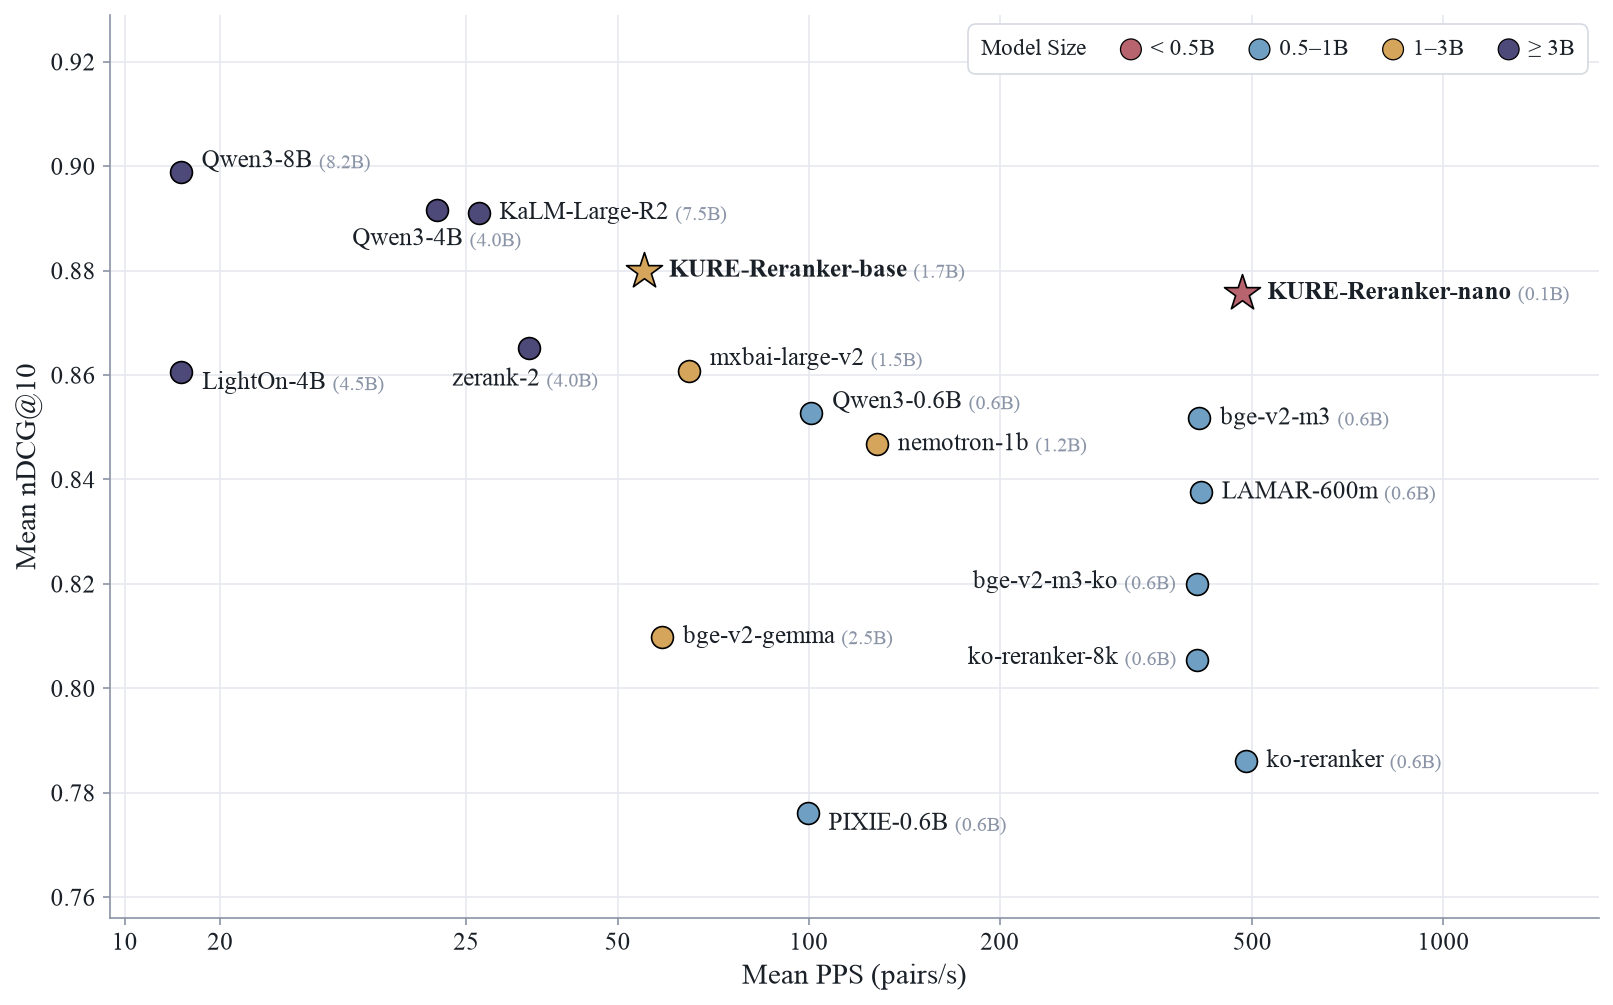
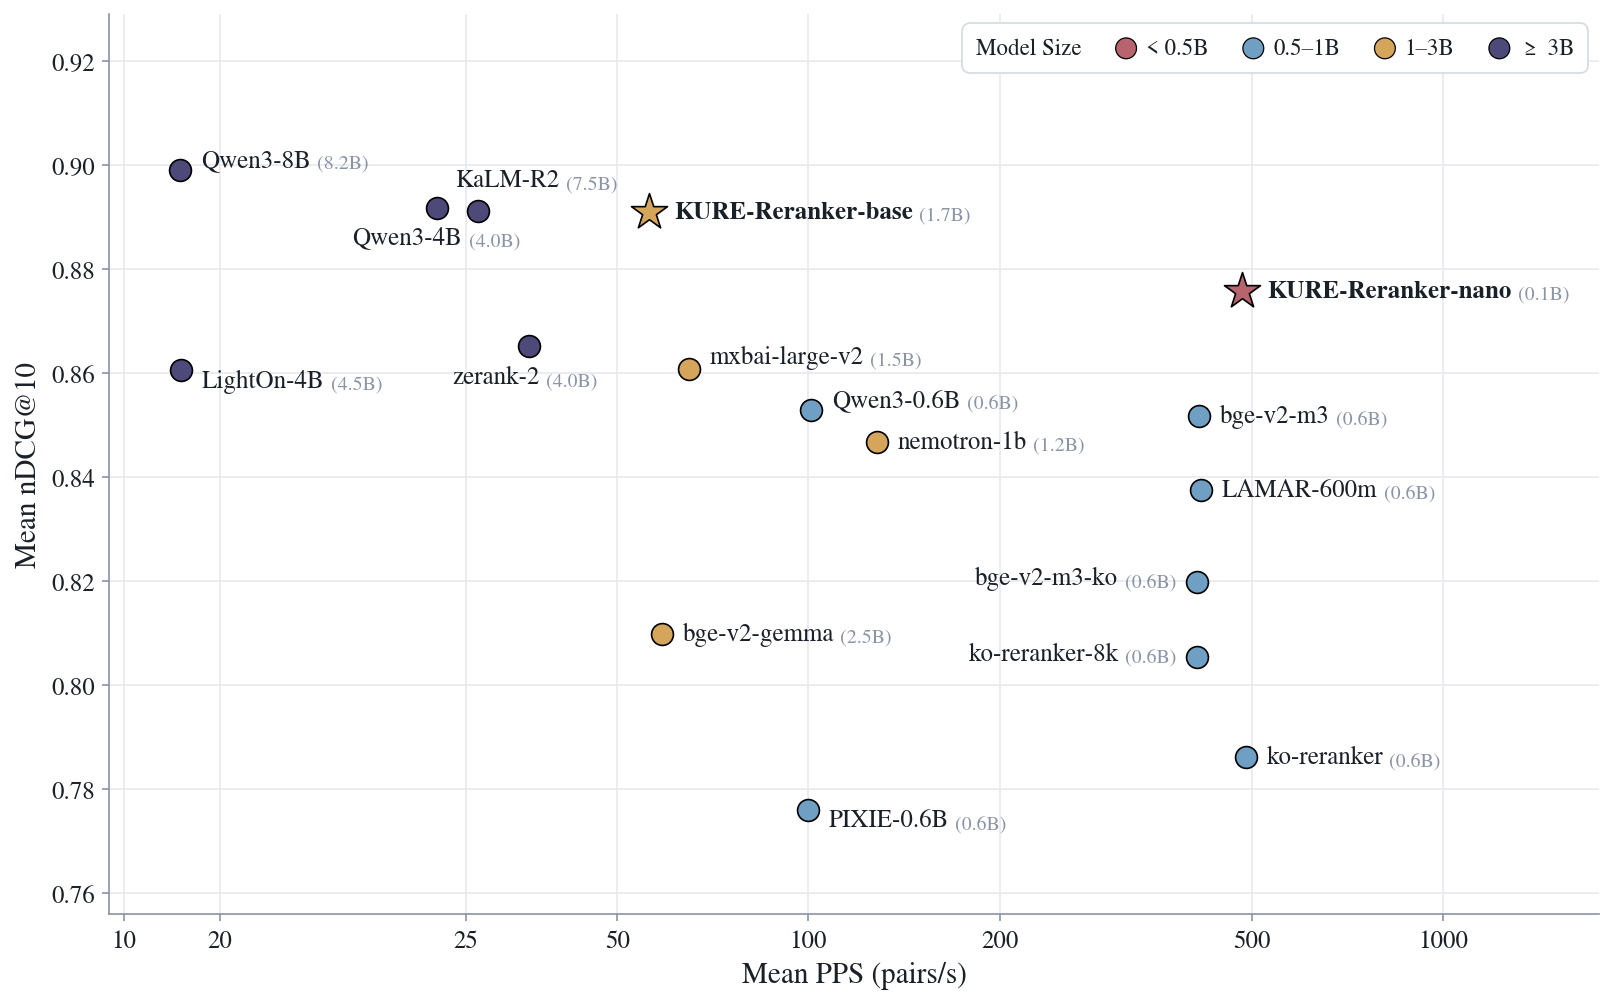
feat: add retrained KURE-Reranker-base, and its evaluation results

diff --git a/eval/cross-encoder/plot_pps_vs_ndcg.py b/eval/cross-encoder/plot_pps_vs_ndcg.py
@@ -63,7 +63,7 @@ SHORT = {
     "Qwen/Qwen3-Reranker-8B": "Qwen3-8B",
     "Qwen/Qwen3-Reranker-4B": "Qwen3-4B",
     "Qwen/Qwen3-Reranker-0.6B": "Qwen3-0.6B",
-    "KaLM-Embedding/KaLM-Reranker-V1-Large-R2": "KaLM-Large-R2",
+    "KaLM-Embedding/KaLM-Reranker-V1-Large-R2": "KaLM-R2",
     "zeroentropy/zerank-2-reranker": "zerank-2",
     "lightonai/LightOn-rerank-PW-4B": "LightOn-4B",
     "mixedbread-ai/mxbai-rerank-large-v2": "mxbai-large-v2",
@@ -85,6 +85,7 @@ OFFSET = {
     "PIXIE-0.6B": (10, -5),
     "bge-v2-m3-ko": (-10, 0),
     "ko-reranker-8k": (-10, 0),
+    "KaLM-R2": (14, 15, "center"),  # above, slightly right: KURE-Reranker-base sits to its right
     "KURE-Reranker-base": (12, 0),
     "KURE-Reranker-nano": (12, 0),
 }

diff --git a/eval/cross-encoder/results/README.md b/eval/cross-encoder/results/README.md
@@ -8,10 +8,10 @@ uv run python eval/cross-encoder/make_leaderboard.py
 
 | Model | Params | Avg | Ko-StrategyQA | AutoRAG | PublicHealthQA | Belebele | MIRACL | MrTidy | MLDR | SQuADKorV1 | LawIRKo |
 |---|---:|---:|---:|---:|---:|---:|---:|---:|---:|---:|---:|
-| Qwen/Qwen3-Reranker-8B | 8.2B | **0.8990** | 0.8720 | 0.9653 | **0.8654** | 0.9785 | 0.8513 | 0.8416 | **0.8255** | **0.9897** | **0.9013** |
+| Qwen/Qwen3-Reranker-8B | 8.2B | **0.8990** | 0.8720 | 0.9653 | **0.8654** | 0.9785 | 0.8513 | 0.8416 | **0.8255** | 0.9897 | **0.9013** |
 | Qwen/Qwen3-Reranker-4B | 4.0B | 0.8916 | 0.8733 | 0.9630 | 0.8442 | 0.9794 | 0.8559 | 0.8298 | 0.8161 | 0.9861 | 0.8766 |
 | KaLM-Embedding/KaLM-Reranker-V1-Large-R2 | 7.5B | 0.8910 | **0.8796** | 0.9415 | 0.8633 | **0.9809** | 0.8382 | 0.8500 | 0.7970 | 0.9863 | 0.8824 |
-| **nlpai-lab/KURE-Reranker-base** | 1.7B | 0.8800 | 0.8548 | 0.9762 | 0.8381 | 0.9767 | 0.8371 | 0.7970 | 0.8163 | 0.9891 | 0.8343 |
+| **nlpai-lab/KURE-Reranker-base** | 1.7B | 0.8908 | 0.8605 | **0.9870** | 0.8331 | 0.9757 | 0.8496 | 0.8252 | 0.8189 | **0.9907** | 0.8768 |
 | **nlpai-lab/KURE-Reranker-nano** | 149M | 0.8757 | 0.8582 | 0.9741 | 0.8078 | 0.9768 | 0.8400 | 0.8011 | 0.7966 | 0.9895 | 0.8368 |
 | zeroentropy/zerank-2-reranker | 4.0B | 0.8652 | 0.8712 | 0.9436 | 0.8377 | 0.9731 | 0.8003 | 0.8027 | 0.7120 | 0.9791 | 0.8669 |
 | mixedbread-ai/mxbai-rerank-large-v2 | 1.5B | 0.8607 | 0.8563 | 0.9531 | 0.8407 | 0.9659 | 0.7939 | **0.8771** | 0.6787 | 0.9681 | 0.8130 |
@@ -26,7 +26,7 @@ uv run python eval/cross-encoder/make_leaderboard.py
 | Dongjin-kr/ko-reranker | 560M | 0.7861 | 0.8468 | 0.9014 | 0.6976 | 0.9655 | 0.8017 | 0.7772 | 0.3721 | 0.9785 | 0.7343 |
 | telepix/PIXIE-Spell-Reranker-Preview-0.6B | 596M | 0.7760 | 0.8329 | 0.9794 | 0.8211 | 0.9689 | 0.8449 | 0.7650 | 0.1829 | 0.9850 | 0.6042 |
 | jinaai/jina-reranker-v3 | 597M | - | 0.8553 | 0.9773 | 0.7762 | 0.9606 | 0.8449 | 0.8104 | - | 0.9859 | 0.8546 |
-| jinaai/jina-reranker-v3.5 | 597M | - | 0.8539 | **0.9838** | 0.8337 | 0.9659 | **0.8565** | 0.8194 | - | 0.9887 | 0.8545 |
+| jinaai/jina-reranker-v3.5 | 597M | - | 0.8539 | 0.9838 | 0.8337 | 0.9659 | **0.8565** | 0.8194 | - | 0.9887 | 0.8545 |
 
 ## Per-task PPS
 
@@ -43,7 +43,7 @@ uv run python eval/cross-encoder/make_leaderboard.py
 | telepix/PIXIE-Spell-Reranker-Preview-0.6B | 596M | 99.7 | 104.6 | 49.4 | 106.3 | 141.5 | 160.5 | 175.6 | 4.3 | 72.1 | 82.6 |
 | mixedbread-ai/mxbai-rerank-large-v2 | 1.5B | 64.8 | 70.0 | 32.9 | 68.0 | 89.8 | 104.2 | 113.6 | 3.2 | 47.0 | 54.7 |
 | BAAI/bge-reranker-v2-gemma | 2.5B | 58.8 | 64.7 | 26.1 | 60.5 | 83.8 | 99.8 | 106.8 | 2.5 | 40.0 | 44.7 |
-| **nlpai-lab/KURE-Reranker-base** | 1.7B | 55.0 | 59.2 | 27.3 | 58.0 | 77.0 | 89.1 | 97.1 | 2.6 | 39.1 | 45.7 |
+| **nlpai-lab/KURE-Reranker-base** | 1.7B | 56.2 | 60.9 | 27.9 | 58.5 | 77.9 | 91.7 | 99.7 | 2.5 | 39.9 | 46.2 |
 | zeroentropy/zerank-2-reranker | 4.0B | 29.3 | 31.0 | 12.7 | 29.5 | 41.4 | 51.0 | 56.4 | 1.1 | 18.8 | 22.3 |
 | KaLM-Embedding/KaLM-Reranker-V1-Large-R2 | 7.5B | 25.3 | 28.6 | 12.4 | 25.4 | 36.9 | 39.6 | 43.8 | 0.8 | 18.7 | 21.4 |
 | Qwen/Qwen3-Reranker-4B | 4.0B | 24.3 | 26.2 | 11.8 | 25.6 | 34.5 | 40.1 | 42.8 | 1.1 | 17.1 | 19.9 |
